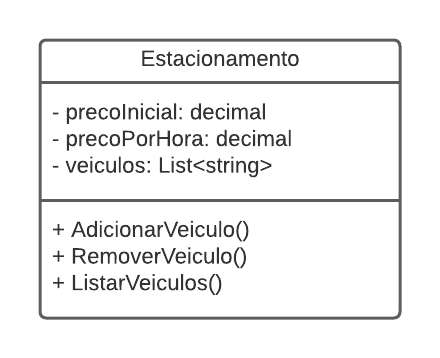
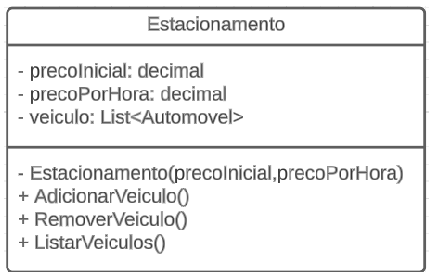
reformulação do README do projeto

Changed region(s): [[0.0, 0.0, 0.9931, 0.9784]]

diff --git a/trilha-net-fundamentos-desafio-main/DesafioFundamentos/Models/Automovel.cs b/trilha-net-fundamentos-desafio-main/DesafioFundamentos/Models/Automovel.cs
@@ -7,17 +7,17 @@ namespace DesafioFundamentos.Models.tipoAutomovel
 {
     public class Automovel
     {
-        private decimal valorInial = 0;
+        private decimal valorInicial = 0;
         
         public string placa,tipoVeiculo;
-        public Automovel(decimal valorInial, string placa, string tipo){
-            this.valorInial = valorInial;
+        public Automovel(decimal valorInicial, string placa, string tipo){
+            this.valorInicial = valorInicial;
             this.placa = placa;
             this.tipoVeiculo = tipo;
         }
         
         public decimal getValor(){
-            return this.valorInial;
+            return this.valorInicial;
         }
         
     }   

diff --git a/trilha-net-fundamentos-desafio-main/README.md b/trilha-net-fundamentos-desafio-main/README.md
@@ -1,38 +1,52 @@
 # DIO - Trilha .NET - Fundamentos
 www.dio.me
 
-## Desafio de projeto
-Para este desafio, você precisará usar seus conhecimentos adquiridos no módulo de fundamentos, da trilha .NET da DIO.
-
 ## Contexto
 Você foi contratado para construir um sistema para um estacionamento, que será usado para gerenciar os veículos estacionados e realizar suas operações, como por exemplo adicionar um veículo, remover um veículo (e exibir o valor cobrado durante o período) e listar os veículos.
 
-## Proposta
-Você precisará construir uma classe chamada "Estacionamento", conforme o diagrama abaixo:
+## Descriçao do Código:
+Foi construido duas classes chamadas "Estacionamento" e "Automovel" conforme o diagrama abaixo:
 ![Diagrama de classe estacionamento](diagrama_classe_estacionamento.png)
 
-A classe contém três variáveis, sendo:
+![Diagrama de classe estacionamento](diagrama_classe_automovel.png)
 
-**precoInicial**: Tipo decimal. É o preço cobrado para deixar seu veículo estacionado.
+## A classe Estacionamento contém um construtor, três variáveis e três métodos, sendo:
 
-**precoPorHora**: Tipo decimal. É o preço por hora que o veículo permanecer estacionado.
+**Estacionamento**: Construtor para instanciar a classe. Tem como parametro precoInicial e precoPorHora digitado pelo usuário na inicialização do programa.
 
-**veiculos**: É uma lista de string, representando uma coleção de veículos estacionados. Contém apenas a placa do veículo.
+**precoInicial**: Variável do tipo decimal. É o preço cobrado para deixar seu veículo estacionado.
 
-A classe contém três métodos, sendo:
+**precoPorHora**: Variável do tipo decimal. É o preço por hora que o veículo permanecer estacionado.
 
-**AdicionarVeiculo**: Método responsável por receber uma placa digitada pelo usuário e guardar na variável **veiculos**.
+**veiculos**: Variável lista de objetos do tipo Automovel, representando uma coleção de veículos estacionados. Cada objeto na lista contém precoInicial, placa e tipoVeiculo (podendo ser corro ou moto)
 
-**RemoverVeiculo**: Método responsável por verificar se um determinado veículo está estacionado, e caso positivo, irá pedir a quantidade de horas que ele permaneceu no estacionamento. Após isso, realiza o seguinte cálculo: **precoInicial** * **precoPorHora**, exibindo para o usuário.
+**AdicionarVeiculo**: Método responsável por receber o tipo do veiculo que está sendo estacionado e uma placa, digitada pelo usuário, instancia um objeto Automovel com os valores fixos no caso de ser um carro ou moto e guardar a referencia do objeto em **veiculos**.
 
-**ListarVeiculos**: Lista todos os veículos presentes atualmente no estacionamento. Caso não haja nenhum, exibir a mensagem "Não há veículos estacionados".
+**RemoverVeiculo**: Método responsável por verificar se um determinado veículo está estacionado, e caso positivo, irá pedir a quantidade de horas que ele permaneceu no estacionamento. Após isso, busca os dados necessários no objeto de referencia e realiza o seguinte cálculo: **precoInicial** * **precoPorHora**, exibindo para o usuário.
 
-Por último, deverá ser feito um menu interativo com as seguintes ações implementadas:
+**ListarVeiculos**: Lista todos os veículos presentes atualmente no estacionamento, mostrando o **TipoVeiculo** e **placa**. Caso não haja nenhum, exibir a mensagem "Não há veículos estacionados".
+
+
+## A classe Automovel contém um construtor, três variáveis e um métodos, sendo:
+
+**Automovel**: Construtor para instanciar a classe. 
+Caso seja um carro tem como parametro (**precoInicial**) digitado pelo usuário,(**placa**) digitado pelo usuário,(**carro**) fixo no codigo. 
+Caso seja uma moto tem como parametro (**precoInicial**/2) digitado pelo usuário,(**placa**) digitado pelo usuário,(**moto**) fixo no codigo.
+
+**precoInicial**: Variável do tipo decimal. É o preço cobrado para deixar seu veículo estacionado.
+
+**placa**: Variável do tipo string. É a placa do veiculo estacionado.
+
+**tipoVeiculo**: Variável do tipo string. Se o veiculo é uma moto ou carro.
+
+**getValor**: Método que retorna o valor inicial pago ao entrar no estacionamento.
+
+
+Por último, um menu interativo com as seguintes ações implementadas:
 1. Cadastrar veículo
 2. Remover veículo
 3. Listar veículos
 4. Encerrar
 
 
-## Solução
-O código está pela metade, e você deverá dar continuidade obedecendo as regras descritas acima, para que no final, tenhamos um programa funcional. Procure pela palavra comentada "TODO" no código, em seguida, implemente conforme as regras acima.
+
